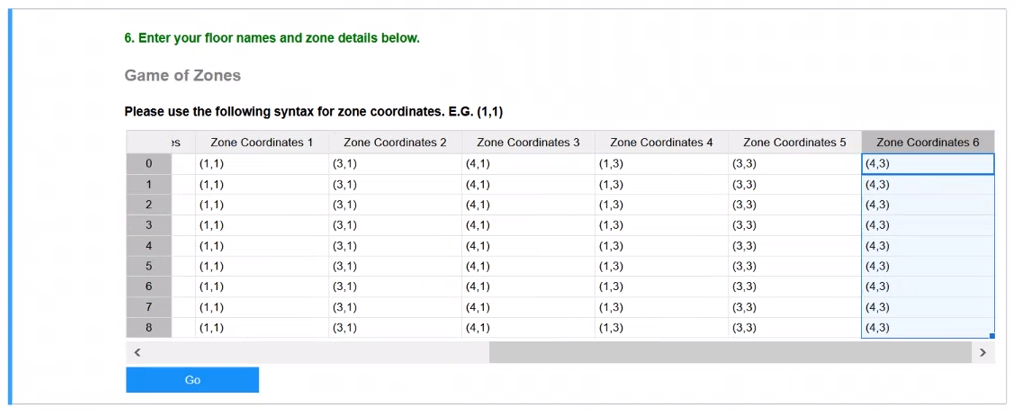
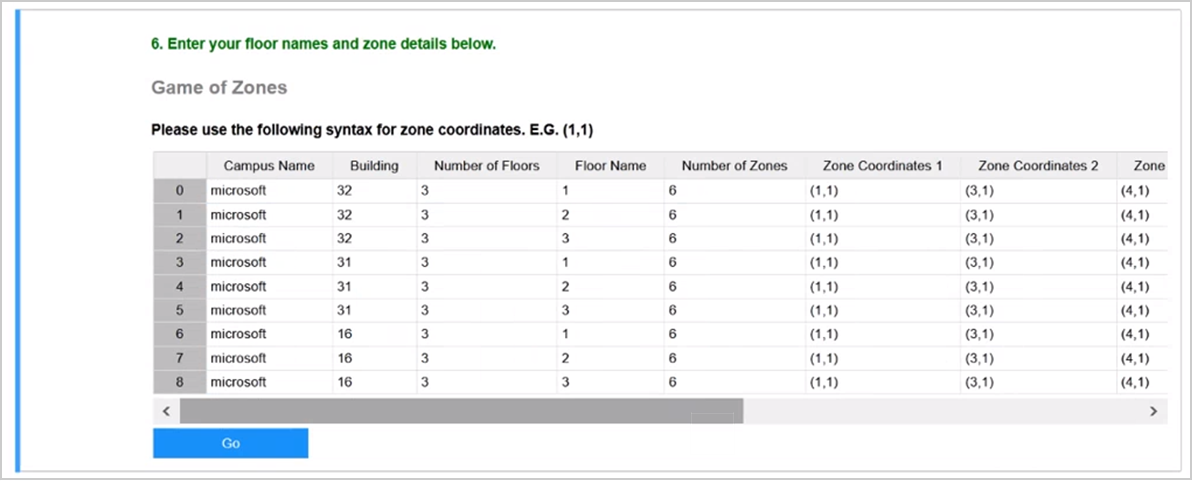
edits

diff --git a/WorkplaceAnalytics/azure-templates/wsplan-intro.md b/WorkplaceAnalytics/azure-templates/wsplan-intro.md
@@ -70,20 +70,20 @@ The tool combines the data in these files to generate a table that shows where t
    ![Example zone grid and table](./images/wsp-zones.png)
 
 4. Use a [Google Chrome browser](https://www.google.com/chrome/), which is required by Jupyter, to open the Anaconda navigator.
-5. In Anaconda, launch Jupyter Note, and then locate and open the **Distance Helper notebook** in the workspace working folder.
-6. In the Distance helper notebook, select **Run** at the top, which for your first use will load any necessary files, including the **Requirements.txt** data.
+5. In Anaconda, launch Jupyter Notebook, and then locate and open the **Distance Helper notebook** in the master folder.
+6. In the Distance Helper notebook, select **Run** at the top. For your first use, it will take a few minutes to load any necessary files, including the **Requirements.txt** data.
 7. When prompted, enter the total number of buildings you have, and then select **Go**.
 
    ![Distance Helper buildings prompt](./images/distant-helper.png)
 
-8. Enter the building information in the table, including the name, number, and complete address of each building.
-9. In **Max number of floors**, enter the maximum number of floors that the buildings included in the overall workspace have, and then select **Go**. For example, if two of the buildings have two floors and one has three floors in the overall workspace, you'd enter three as the maximum number of floors for the workspace.
+8. Enter the building information in the table, including the name, number, and complete address of each building. The tool needs the full address for accurate latitude and longitude coordinates.
+9. In **Max number of floors**, enter the maximum number of floors for the buildings included in the overall workspace have, and then select **Go**. For example, if two of the buildings have two floors and one has three floors in the overall workspace, you'd enter three as the maximum number of floors for the workspace.
 10. In the table, enter the numbers assigned to each floor in each building.
-11. In **Max number of zones**, enter the maximum number of zones that you'll need to define for any of the floors in any of the individual buildings. The following shows entering six as the maximum number of zones required for a floor in one of the buildings in the workspace.
+11. In **Max number of zones**, enter the maximum number of zones that you'll need to define for any of the floors in any of the individual buildings. For example, the following shows entering six as the maximum number of zones required for a floor in one of the buildings.
 
     ![Distance Helper floor and zone number prompts](./images/wsp-dh-fnz.png)
 
-12. In the **Game of Zones** table, enter the zone coordinates that you defined in **Step 3**, and then select **Go**.
+12. In the **Game of Zones** table, enter the floor names, number of zones, and corresponding zone coordinates for each building, which you defined in **Step 3**, and then select **Go**. For example, the following shows Floor 1 with 6 zones in building 30 that require zone coordinates, such as (1,1), (3,1), (4,1), and so on.
 
     ![Distance Helper Game of Zones example table](./images/wsp-game-of-zones.png)
 
@@ -91,11 +91,19 @@ The tool combines the data in these files to generate a table that shows where t
 
     ![Distance Helper example space names](./images/wsp-space-names.png)
 
+    >[!Important]
+    >The friendly space names must match the floor names that you entered in the space_capacity.csv file.
+
 14. Select **Go**, which saves a new Distance.csv file with all your inputs in your working folder, and then select **Open Validations UI Notebook**.
-15. In the **File Validations notebook**, select **Run** to validate the files before you use them to generate the floorplans.
+15. In the **File Validations notebook**, select **Run** to validate the files before you use them to generate the floor plans.
 16. When prompted to load the data, select the location for each of the files, as shown in the following graphic, and then select **Go** to validate them.
 
     ![File Validations notebook example](./images/wsp-file-validation.png)
 
-17. After validation, you'll see a green check mark for each file that passed and a red X for any that failed validation. You can select to **Show details** and troubleshoot why a file failed. After you have fixed any issues in the file, repeat **Step 6** to validate the file again.
-18. 
+17. After validation, you'll see a green check mark for each file that passed and a red X for any that failed validation. For a red X, you can select **Show details** to troubleshoot why the file failed. After you have fixed any issues, repeat **Step 6** to validate the file again.
+18. After all files are successfully validated, you need to select one of the following input scenarios that the tool should use for seating people in zones. These scenarios are based on the interactions file query data. 
+
+    * Latest dates - Uses the 
+    * Average collaboration - 
+    * Total collaboration - 
+    * Boost intra-collaboration - 
